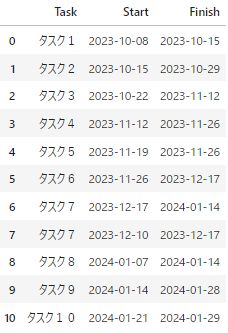
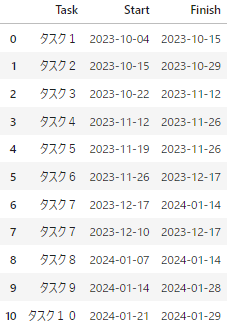
ガントチャート作成コード修正

diff --git a/source/0015_gantt_chart.md b/source/0015_gantt_chart.md
@@ -39,7 +39,9 @@ def make_dict(year_1, month_1, nweek1, span_week=1, start_offset=0, Task='task')
     dict_ = dict(Task=Task, Start=start_day1, Finish=end_day1,)  # ジョブの名称 # 開始日 # 終了日
     return dict_
 
-dict0 = make_dict(2023, 10, nweek1=2, span_week=1, start_offset=0, Task='タスク１')
+# 年と月、第何週から始まるか(nweek1)、期間は何週か(span_week)を引数とする
+# start_offsetはnweek1をずらすためにある(そのままだと第n週の途中から設定できないため)
+dict0 = make_dict(2023, 10, nweek1=2, span_week=1, start_offset=-0.5, Task='タスク１')
 dict1 = make_dict(2023, 10, nweek1=3, span_week=2, start_offset=0, Task='タスク２')
 dict2 = make_dict(2023, 10, nweek1=4, span_week=3, start_offset=0, Task='タスク３')
 dict3 = make_dict(2023, 11, nweek1=3, span_week=2, start_offset=0, Task='タスク４')
